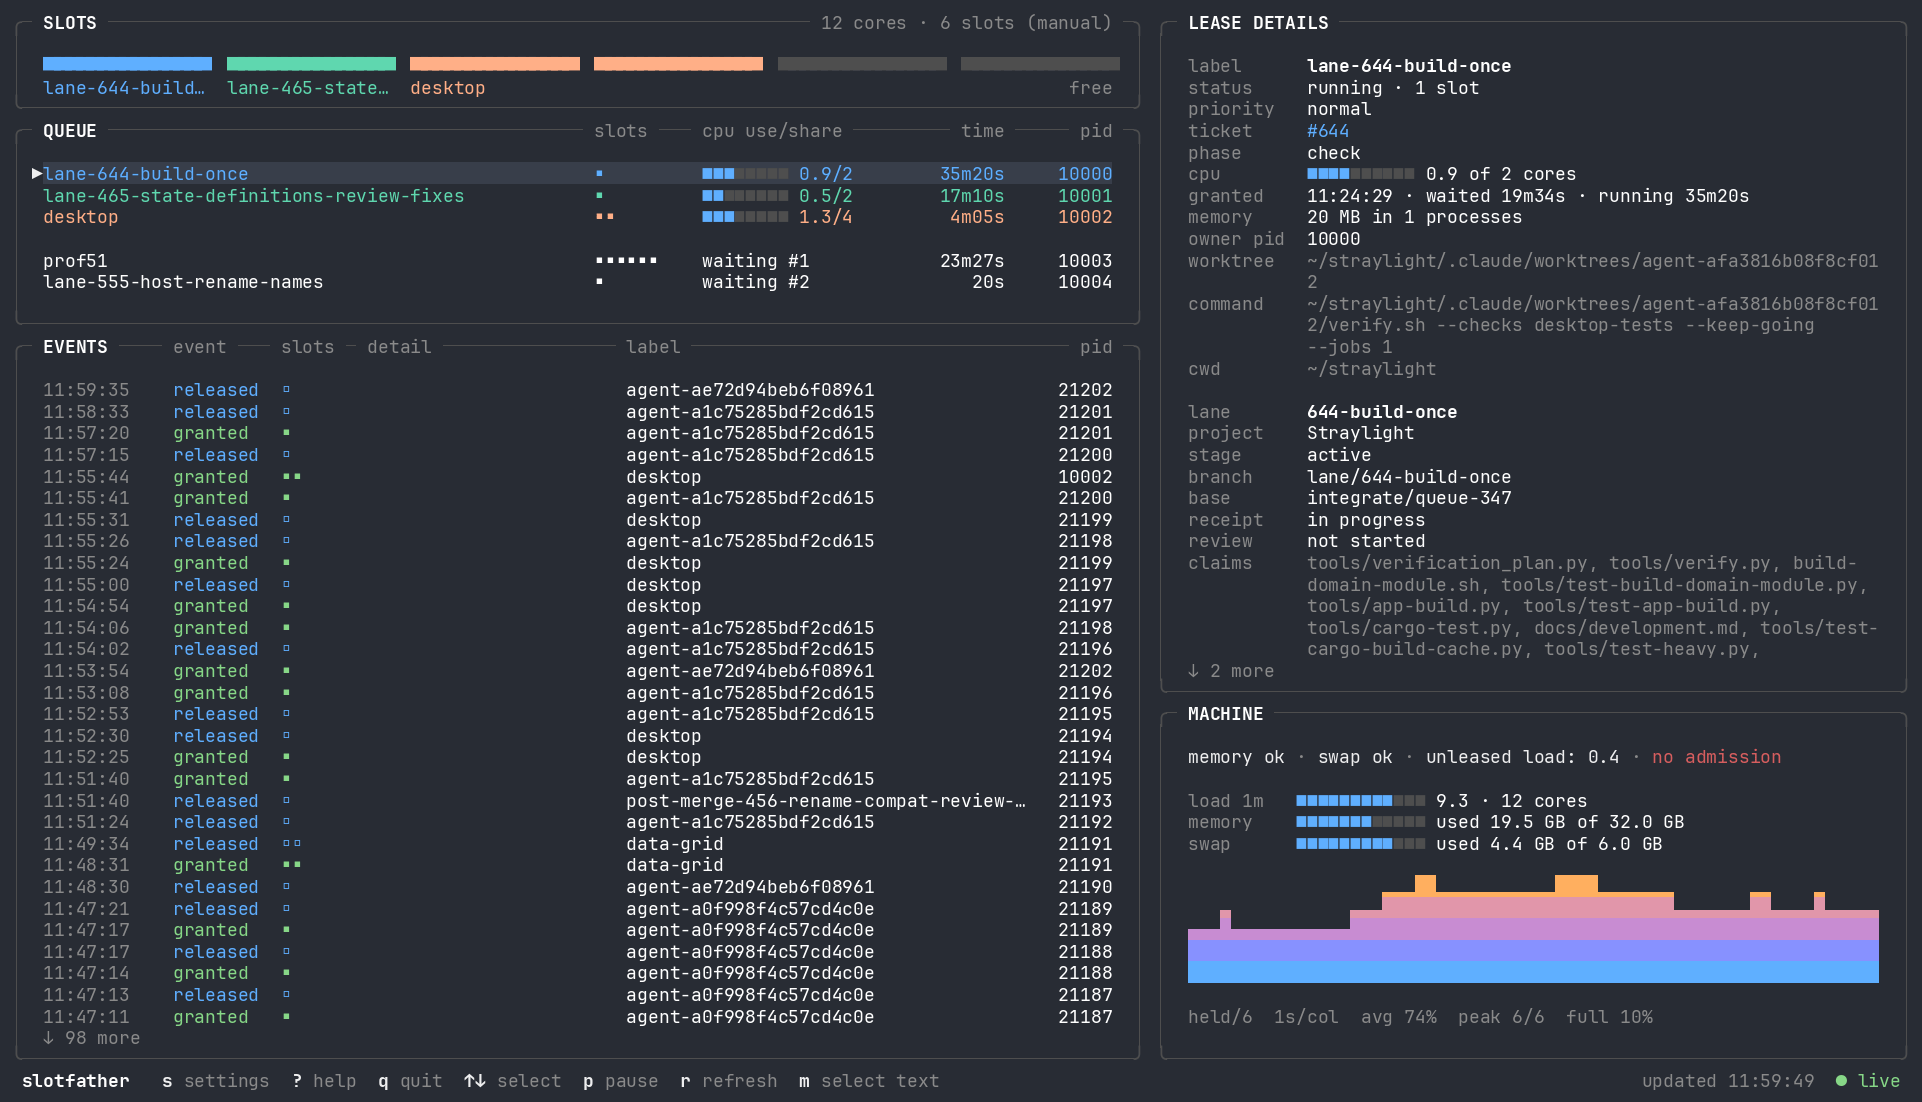
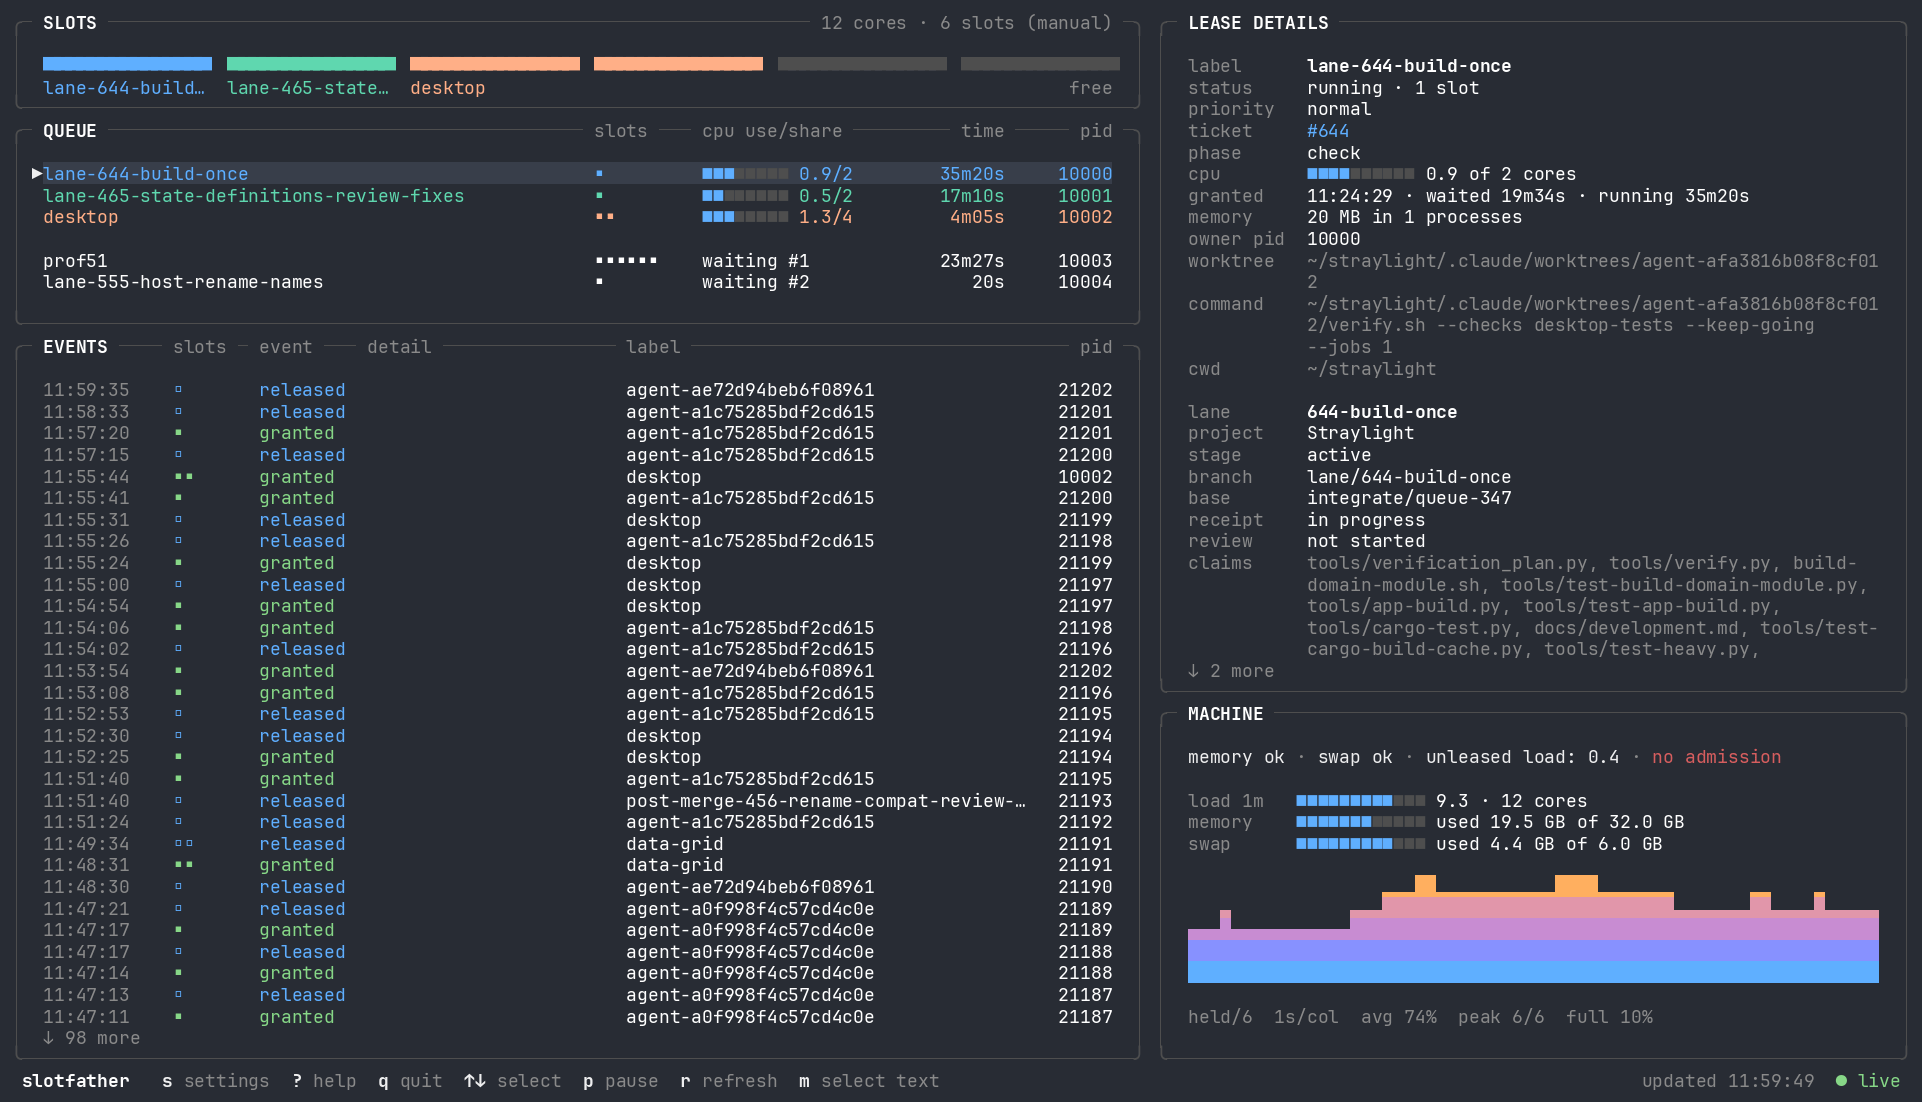
Put EVENTS slots before the event
Owner request: EVENTS reads time, slots, event, detail, label, pid; the
cells (filled ▪ taken, hollow ▫ handed back or never held) come right
after the time. A narrow panel still drops pid, then detail. Help, docs,
tests and the README media follow.

Changed region(s): [[0.0937, 0.3085, 0.1873, 0.9256]]

diff --git a/slotfather/src/slotfather/dashboard.py b/slotfather/src/slotfather/dashboard.py
@@ -1222,7 +1222,7 @@ def draw_events(canvas: Canvas, y: int, x: int, height: int, width: int, model: 
     events = cast(list[dict[str, Any]], model["events"])[::-1]
     cells = max([5] + [text_width(cells_text(min(SLOT_CELLS, int(event["count"])))) for event in events])
     placed = cast(list[tuple[str, str, int, int, bool]], columns(width - 6, [
-        ("time", "time", 10, False, 0), ("event", "event", 8, False, 1), ("slots", "slots", cells, False, 2),
+        ("time", "time", 10, False, 0), ("slots", "slots", cells, False, 2), ("event", "event", 8, False, 1),
         ("detail", "detail", 22, False, 3), ("label", "label", 0, False, 0), ("pid", "pid", 6, True, 4)]))
     size = next((column[3] for column in placed if column[0] == "slots"), cells)
     table_header(canvas, y, x, height, width, "EVENTS", placed)
@@ -1274,7 +1274,7 @@ HELP_CONTENT: list[tuple[str, str]] = [
     ("Example: start est 10:30, pass until 10:20. At 10:10, a later request may pass if it can finish before 10:30 with a margin. At 10:21, it cannot pass at all.", "text"),
     ("These are scheduling estimates and rules, not a promised start. Deadlines can change as the queue advances.", "text"),
     ("EVENTS", "title"),
-    ("Recent queue events, newest first. time is the event time; slots is its slot count; label and pid identify the request. Scroll to read older events.", "text"),
+    ("Recent queue events, newest first: time, slots, event, detail, label and pid. time is the event time; label and pid identify the request. On a narrow terminal pid and detail go first. Scroll to read older events.", "text"),
     ("granted: the request received slots. released: it returned them. left: it stopped waiting. reaped: its owner exited and the stale request was removed.", "text"),
     ("slots: one cell per slot in the event's colour, filled ▪ for slots taken (granted) and hollow ▫ for slots handed back (released, a held lease reaped) or never held (left, a waiter reaped).", "text"),
     ("detail comes from the request's history line: waited for a grant, the exit status and run time for a release, gave up after for a waiter that left, owner exited for a reap. It is empty where the history does not reach back.", "text"),

diff --git a/slotfather/tests/test_dashboard.py b/slotfather/tests/test_dashboard.py
@@ -567,6 +567,21 @@ class EventDetailTests(unittest.TestCase):
         self.assertIn("o", canvas.lines(False, ascii_only=True)[next(
             n for n, line in enumerate(lines) if " released " in line)][column:column + 2])
 
+    def test_the_columns_are_time_slots_event_detail_label_pid(self) -> None:
+        tool = load_dashboard()
+        canvas = tool.Canvas(120, 12)
+        tool.draw_events(canvas, 0, 0, 12, 120, {"events": self.events()})
+        lines = canvas.render(False).splitlines()
+        places = [lines[0].index(title) for title in ("EVENTS", "slots", "event", "detail", "label", "pid")]
+        self.assertEqual(sorted(places), places)
+        row = next(line for line in lines if " gate " in line)
+        self.assertRegex(row, r"\d\d:\d\d:\d\d +▫ +left +gave up after 15m00s +gate +103")
+        narrow = tool.Canvas(48, 12)
+        tool.draw_events(narrow, 0, 0, 12, 48, {"events": self.events()})
+        header = narrow.render(False).splitlines()[0]
+        self.assertEqual(["slots", "event"], [t for t in ("slots", "event", "detail", "pid") if t in header],
+                         "pid and detail drop first, the cells and the event stay")
+
     def test_the_detail_column_shows_it_dim(self) -> None:
         tool = load_dashboard()
         model = {"events": self.events()}

diff --git a/slotfather/docs/dashboard.md b/slotfather/docs/dashboard.md
@@ -85,7 +85,8 @@ start. The help explains them alongside CPU, load, memory, admission and history
 ## Events
 
 EVENTS lists the grants, releases, waiters that left and reaped requests at the end
-of `queue.log`, newest first. **slots** uses the same cells as QUEUE in the event's
+of `queue.log`, newest first, in the columns time, slots, event, detail, label and
+pid. **slots** uses the same cells as QUEUE in the event's
 colour: filled `▪` for slots taken (granted) and hollow `▫` for slots handed back
 (released, a held lease reaped) or never held (a waiter that left or was reaped).
 **detail** comes from the request's line in `history.jsonl`: `waited 3m00s` (or
